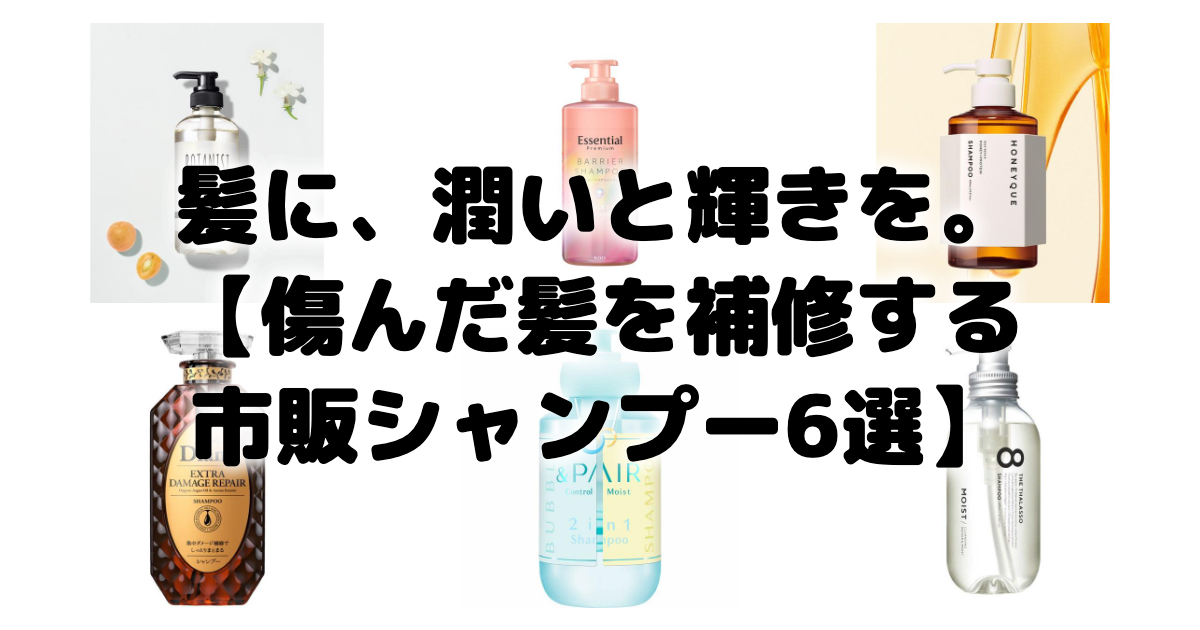
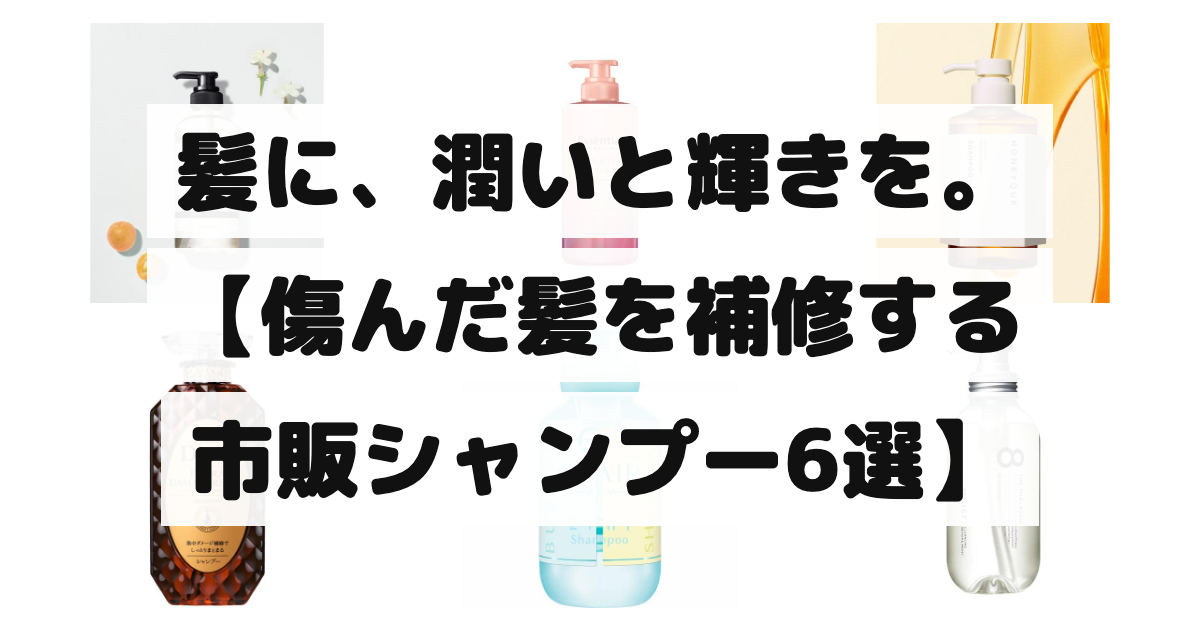
Eyecatch: per-line box enclosure design for readability

Changed region(s): [[0.1233, 0.5127, 0.8633, 0.8444], [0.3392, 0.1508, 0.8942, 0.4825], [0.1233, 0.1508, 0.3083, 0.4524]]

diff --git a/public/eyecatch/20260526-best-shampoos-for-damaged-hair.html b/public/eyecatch/20260526-best-shampoos-for-damaged-hair.html
@@ -7,7 +7,8 @@ body { font-family: 'M PLUS Rounded 1c', sans-serif; display: flex; align-items:
 .pw { width: 100%; height: 100%; display: flex; align-items: center; justify-content: center; }
 .pi { max-width: 360px; max-height: 280px; object-fit: contain; mix-blend-mode: multiply; }
 .to { position: absolute; inset: 0; display: flex; align-items: center; justify-content: center; z-index: 100; pointer-events: none; }
-.ti { font-size: 85px; font-weight: 900; color: #000; line-height: 1.3; text-align: center; padding: 0 60px; text-shadow: 0 0 20px #fff, 0 0 20px #fff, 0 0 20px #fff; word-break: keep-all; }
+.ti { font-size: 85px; font-weight: 900; color: #111; text-align: center; display: flex; flex-direction: column; align-items: center; gap: 10px; }
+.tl { display: inline-block; background: rgba(255, 255, 255, 0.93); padding: 4px 28px; }
 </style></head><body>
 <div class="g"><div class="pw"><img src="https://item-shopping.c.yimg.jp/i/l/zozo_80560013" class="pi" alt="" loading="eager" /></div>
 <div class="pw"><img src="https://item-shopping.c.yimg.jp/i/l/celuleonlineshop_4901301436788" class="pi" alt="" loading="eager" /></div>
@@ -16,5 +17,9 @@ body { font-family: 'M PLUS Rounded 1c', sans-serif; display: flex; align-items:
 <div class="pw"><img src="https://item-shopping.c.yimg.jp/i/l/fujiyaku_4589546899478" class="pi" alt="" loading="eager" /></div>
 <div class="pw"><img src="https://item-shopping.c.yimg.jp/i/l/y-kojima_4589919568833" class="pi" alt="" loading="eager" /></div>
 </div>
-<div class="to"><h1 class="ti">髪に、潤いと輝きを。<br />【傷んだ髪を補修する<br />市販シャンプー6選】</h1></div>
+<div class="to"><h1 class="ti">
+  <span class="tl">髪に、潤いと輝きを。</span>
+  <span class="tl">【傷んだ髪を補修する</span>
+  <span class="tl">市販シャンプー6選】</span>
+</h1></div>
 </body></html>
